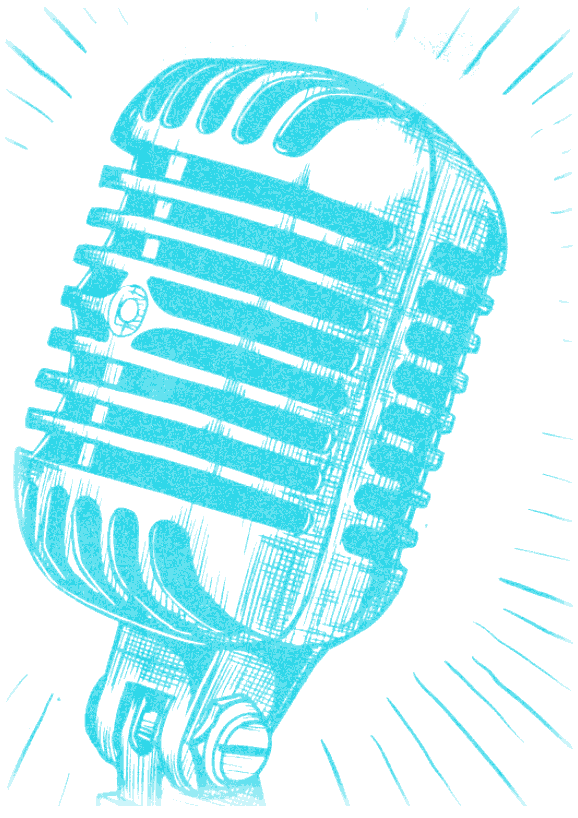
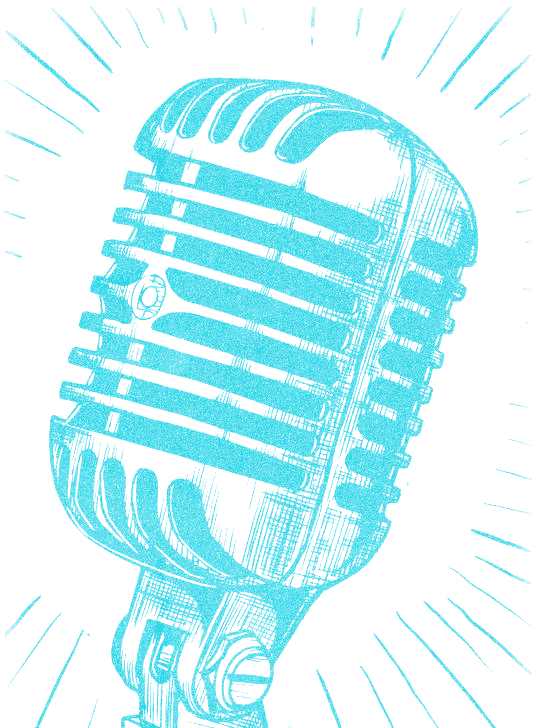
Микрофон перевырезан из исходника афиши вместо скриншота
Студия прислала сам файл афиши. Он 1024x1280, и микрофон в нём 433 px
против 498 px в скриншоте с телефона — но пикселей там было больше
только потому, что Instagram растягивал картинку при показе. Замер
средней величины градиента показал: у исходника чёткость штриха 13.5
против 9.5 у скриншота, то есть на 42% выше при меньшем размере.

Заодно ушли следы интерфейса: в скриншоте кружок реакции перекрывал
стойку микрофона, а точки карусели пришлось срезать вместе с частью
основания. В исходнике микрофон целый до нижнего края афиши.

Порог отсечения фона поднят с 0.20 до 0.32 — исчезла крошка от зерна
афиши в верхней части кадра, лучи при этом целы.

Вырез 536x728, 42 КБ. На сайте показывается около 322 px по ширине,
то есть с уменьшением — штрих остаётся резким.

Проверено: перекрытий 0 и обрезаний по горизонтали 0 на тринадцати
ширинах, консоль чистая, битых путей и якорей нет, 11 кнопок записи
ведут по верному адресу, меню, FAQ, слайдер и вкладки филиалов работают.

Claude-Session: https://claude.ai/code/session_01KtgHo2fbyB333XG5GHT63c

diff --git a/index.html b/index.html
@@ -176,7 +176,7 @@
 
     <div class="hero__visual" aria-hidden="true">
       <div class="hero__mic" data-parallax="0.06">
-        <img src="assets/img/mic.webp" alt="" width="578" height="818" fetchpriority="high" decoding="async">
+        <img src="assets/img/mic.webp" alt="" width="536" height="728" fetchpriority="high" decoding="async">
       </div>
       <div class="hero__rings"><span></span><span></span><span></span></div>
     </div>
